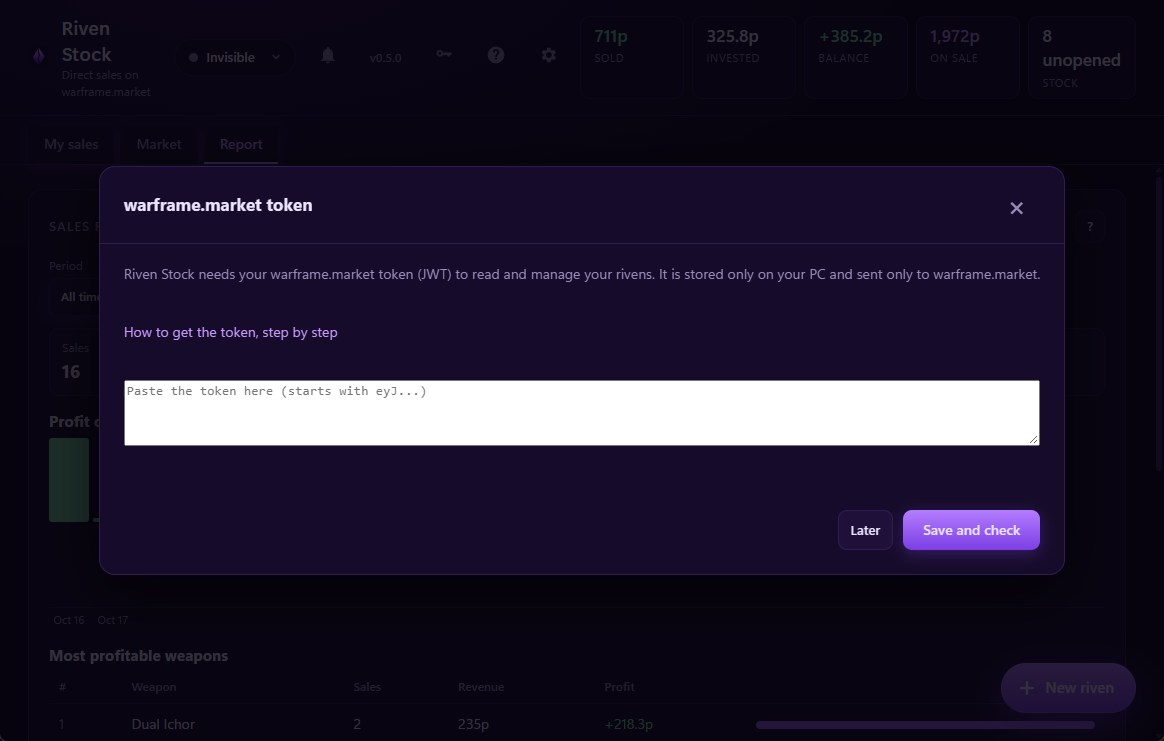
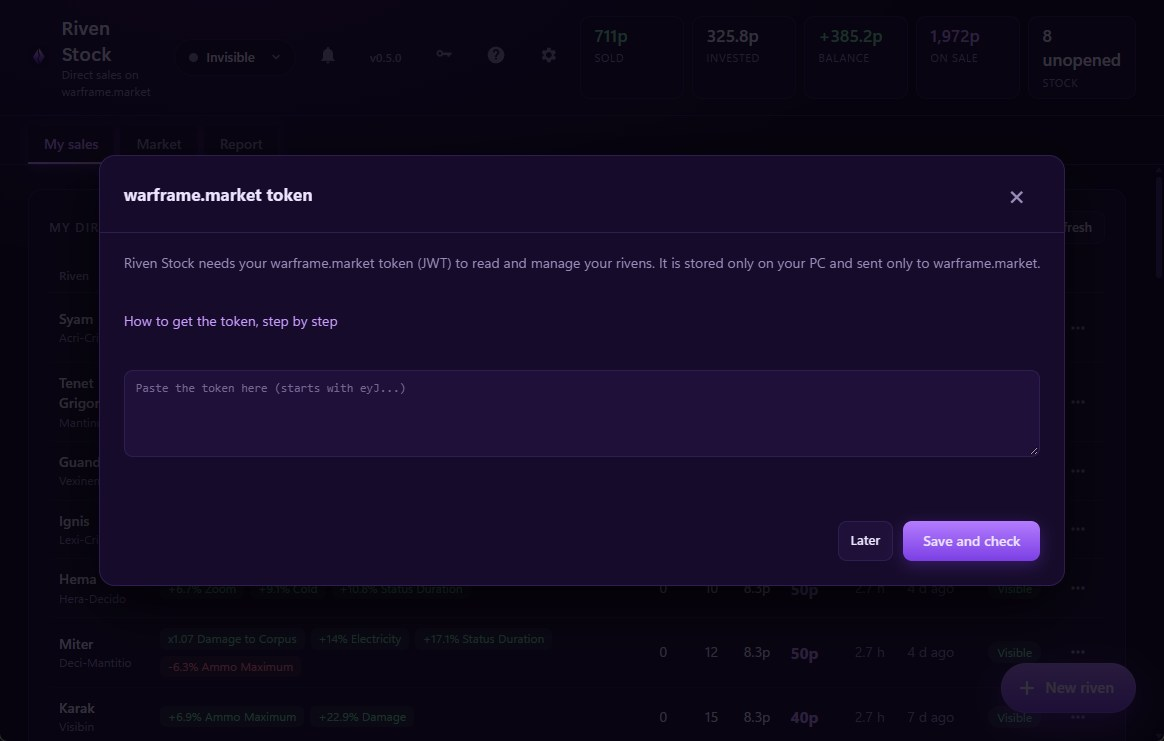
UI: textarea con el estilo oscuro de la app (modal del token); captura real actualizada

diff --git a/ui/index.html b/ui/index.html
@@ -51,13 +51,15 @@
   .card-head { display: flex; align-items: center; justify-content: space-between; gap: 12px; margin-bottom: 14px; }
   h2 { margin: 0; font-size: 13px; font-weight: 600; color: var(--muted); text-transform: uppercase; letter-spacing: 1px; }
   label { display: grid; gap: 6px; font-size: 12px; color: var(--muted); }
-  input, select, button { font: inherit; color: var(--text); }
-  input, select {
+  input, select, textarea, button { font: inherit; color: var(--text); }
+  input, select, textarea {
     background: var(--panel-2); border: 1px solid var(--line); border-radius: 9px;
     padding: 9px 11px; outline: none; width: 100%;
   }
-  input:focus, select:focus { border-color: var(--accent); box-shadow: 0 0 0 3px #a066f633; }
-  input:disabled, select:disabled { opacity: .5; }
+  input:focus, select:focus, textarea:focus { border-color: var(--accent); box-shadow: 0 0 0 3px #a066f633; }
+  input:disabled, select:disabled, textarea:disabled { opacity: .5; }
+  textarea { resize: vertical; font-family: Consolas, monospace; font-size: 12px; line-height: 1.4; box-sizing: border-box; }
+  textarea::placeholder { color: var(--muted); opacity: .7; }
   input[type=number] { -moz-appearance: textfield; appearance: textfield; }
   input[type=number]::-webkit-inner-spin-button, input[type=number]::-webkit-outer-spin-button { -webkit-appearance: none; margin: 0; }
   button {

diff --git a/CHANGELOG.md b/CHANGELOG.md
@@ -7,6 +7,7 @@ Formato basado en [Keep a Changelog](https://keepachangelog.com/es-ES/1.1.0/). V
 - Instalador para Windows (Setup.exe): se puede usar sin tener Python. Se instala por usuario, sin permisos de administrador, y se actualiza solo desde la app.
 - Nuevo botón de la llave en la barra de arriba: pegás tu token de warframe.market (se comprueba y se guarda en tu PC) con un link al tutorial para sacarlo. Aparece solo si falta.
 - Actualizador: si una actualización falla y vuelve atrás, también borra los archivos que la versión nueva había agregado.
+- Los cuadros de texto largos (como el del token) ahora tienen el mismo estilo oscuro que el resto de la app, en lugar del fondo blanco del navegador.
 
 ## [0.5.0] - 2026-10-21
 
